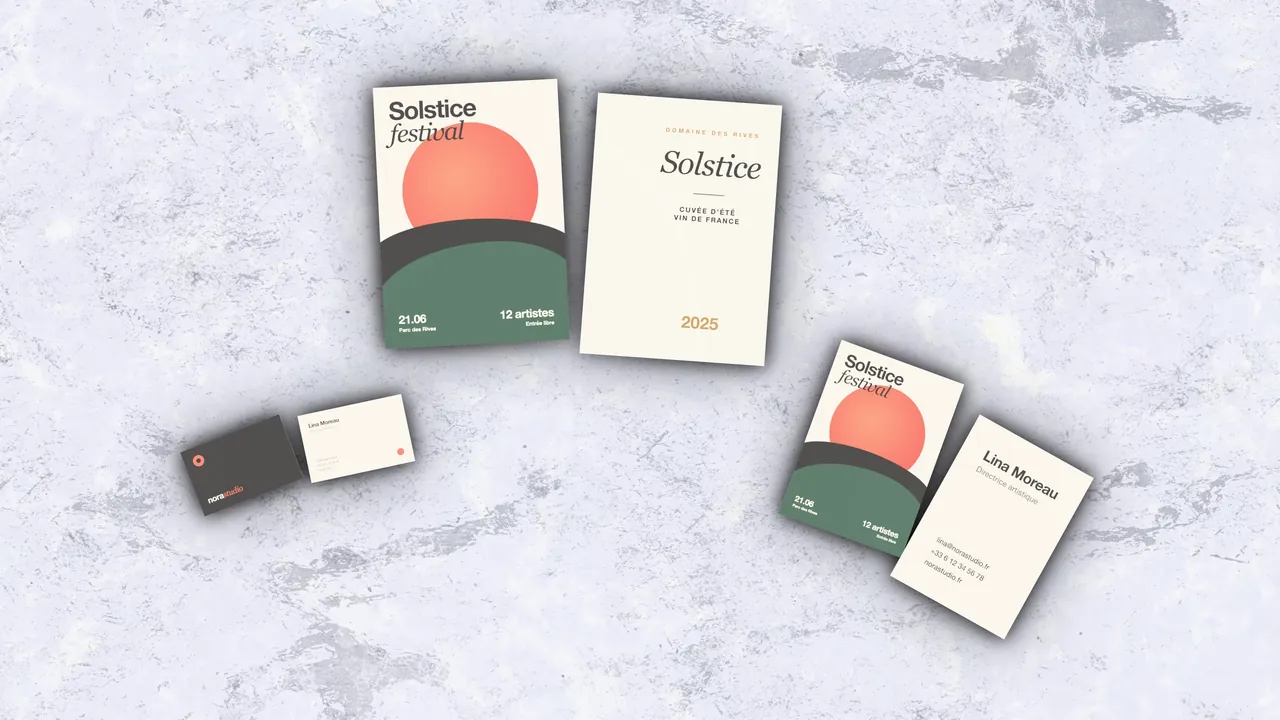
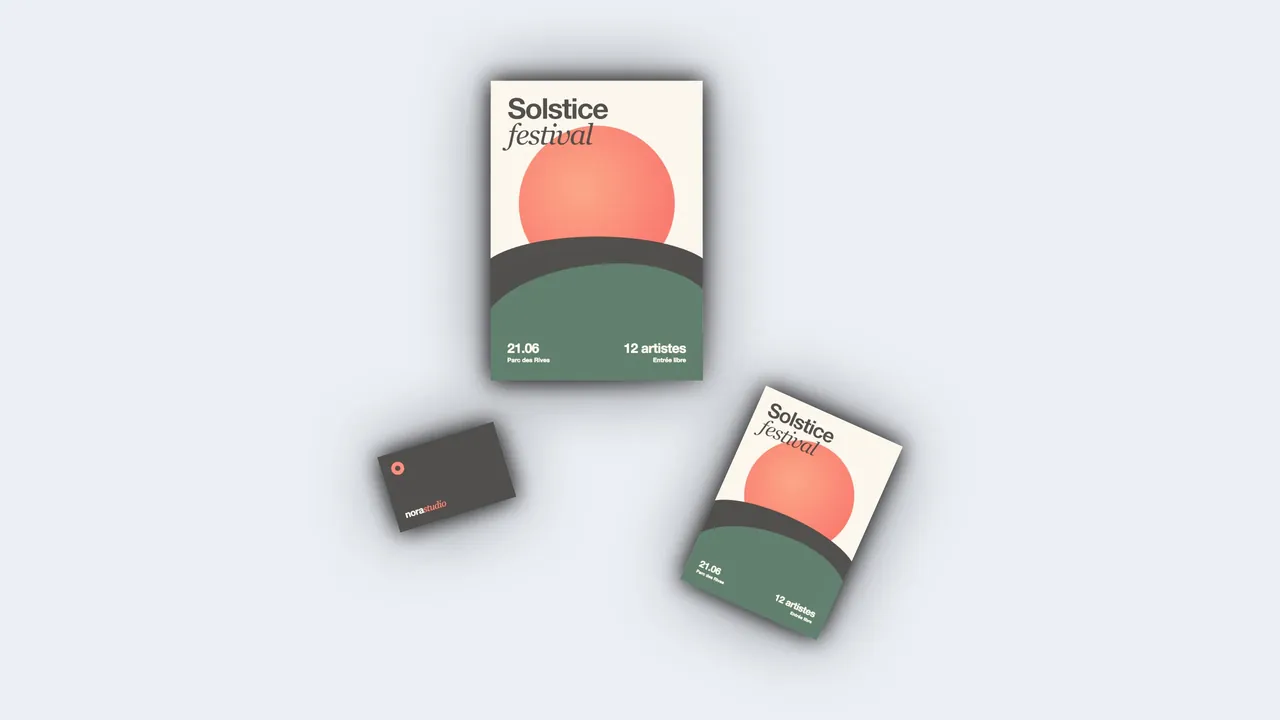
Landing pictures: clean studio sets (no terrazzo, wood or marble); phone-sized copies made with the showcase

diff --git a/scripts/showcase-sizes.py b/scripts/showcase-sizes.py
@@ -1,0 +1,14 @@
+# scripts/showcase-sizes.py — phone-sized copies of the landing stills: 1280 px wide (720 for portrait ones).
+from PIL import Image
+import os
+for f in ['hero-still.webp', 'studio-ui.jpg', 'devices-phones.webp', 'devices-print.webp', 'studio-podium.webp',
+          'motion-still.webp', 'social-post.webp', 'clients-pack.webp']:
+    path = os.path.join('public/showcase', f)
+    im = Image.open(path)
+    w, h = im.size
+    W = 1280 if w > h else 720
+    if w <= W:
+        continue
+    out = path.rsplit('.', 1)[0] + '-%d.webp' % W
+    im.convert('RGB').resize((W, round(h * W / w)), Image.LANCZOS).save(out, 'WEBP', quality=80, method=6)
+    print('saved', os.path.basename(out))
